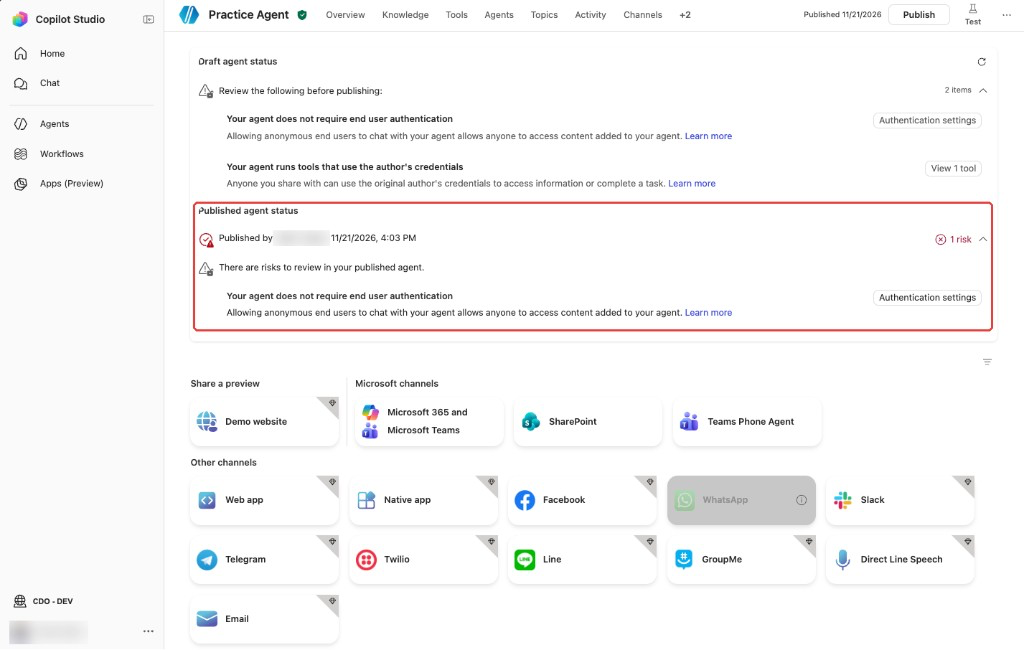
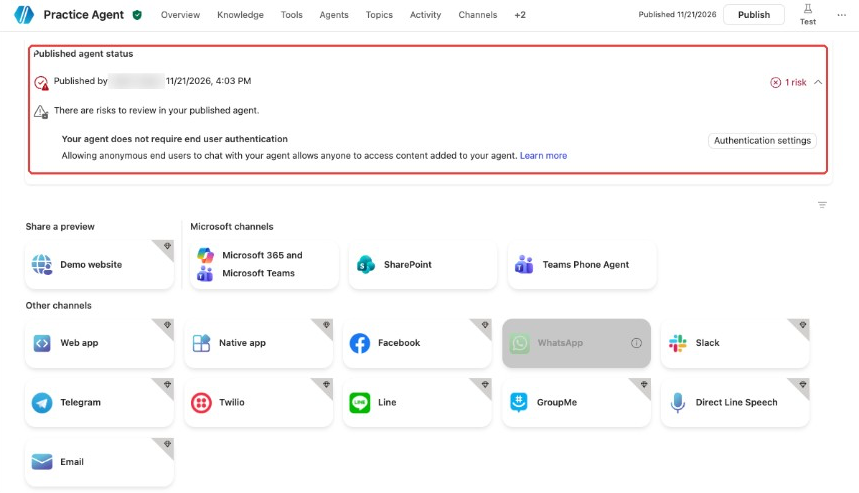
Remove author-credentials warnings from screenshots; drop M7 step 8 image; 1 Warning caption

diff --git a/src/content/modules.ts b/src/content/modules.ts
@@ -253,20 +253,8 @@ const m7Screenshots: Screenshot[] = [
     width: 1024,
     height: 650,
     alt: 'The agent Overview page showing Details, an Agent status area with a 1 Warning badge, and the Select your agent’s model dropdown.',
-    caption:
-      'The Overview page. The 1 Warning badge is expected here: the practice agent uses No authentication so the demo website works.',
+    caption: '1 Warning: no end-user authentication, expected for the demo website.',
     afterStep: 'm7-step-6',
-    capturedAt: '2026-11-21',
-  },
-  {
-    id: 'm7-shot-2',
-    src: 'images/07-overview-two-warnings.png',
-    width: 1024,
-    height: 604,
-    alt: 'Practice Agent Overview page showing the Details card and the 2 Warnings badge',
-    caption:
-      "The Overview page with the 2 Warnings badge. The two warnings are 'no end-user authentication' and 'the agent searches the web'. Both are expected for a practice agent, so you don't need to fix them.",
-    afterStep: 'm7-step-7',
     capturedAt: '2026-11-21',
   },
   {
@@ -355,19 +343,19 @@ const m9Screenshots: Screenshot[] = [
   {
     id: 'm9-shot-publish',
     src: 'images/09-publish-dialog.png',
-    width: 1024,
-    height: 650,
-    alt: 'The Publish this agent dialog listing two items to review before publishing, about end user authentication and tools that use the author’s credentials, with an arrow pointing to Publish.',
-    caption: 'The Publish this agent dialog. Read the review items, then select Publish.',
+    width: 387,
+    height: 190,
+    alt: 'The Publish this agent dialog with the Force newest version option, and an arrow pointing to the Publish button.',
+    caption: 'The Publish this agent dialog. Select Publish.',
     afterStep: 'm9-step-5',
     capturedAt: '2026-11-21',
   },
   {
     id: 'm9-shot-channels',
     src: 'images/09-channels-published.png',
-    width: 1024,
-    height: 650,
-    alt: 'The Channels page after publishing, with the Published agent status section highlighted, above the Demo website, Microsoft 365 and Microsoft Teams, and other channel tiles.',
+    width: 859,
+    height: 493,
+    alt: 'The Channels page after publishing, with the Published agent status section highlighted and one risk, no end user authentication, above the Demo website, Microsoft 365 and Microsoft Teams, and other channel tiles.',
     caption:
       'The Channels page after publishing, with the published status and the Demo website tile.',
     afterStep: 'm9-step-7',
@@ -2392,8 +2380,8 @@ export const modules: Module[] = [
         shot: {
           id: 'm10-shot-share',
           src: 'images/10-share-agent-viewer.png',
-          width: 1024,
-          height: 650,
+          width: 567,
+          height: 330,
           alt: 'The Share window for an agent, with Agent viewer highlighted in the permissions list: it can view Analytics and Evaluation only, but not edit, configure, share, publish or delete the agent.',
           caption:
             'The Share window. Agent viewer (previously called Analytics viewer) gives read-only access.',
